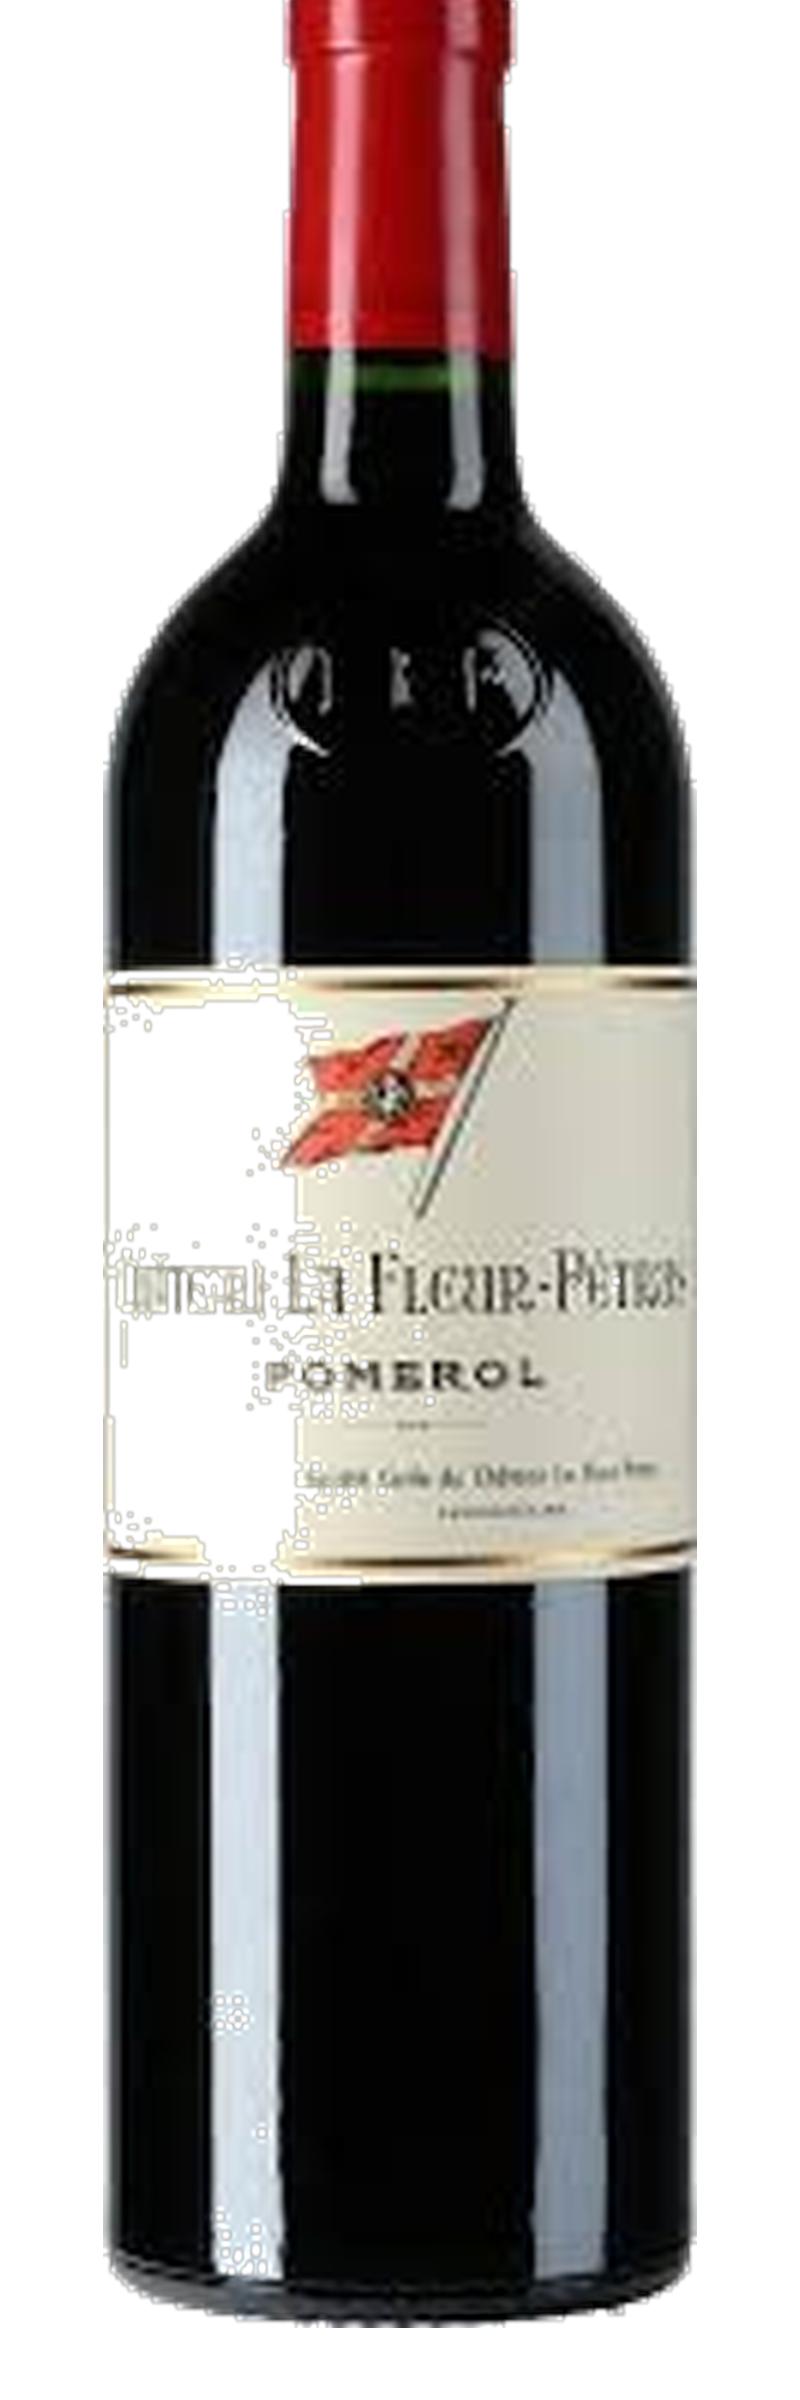
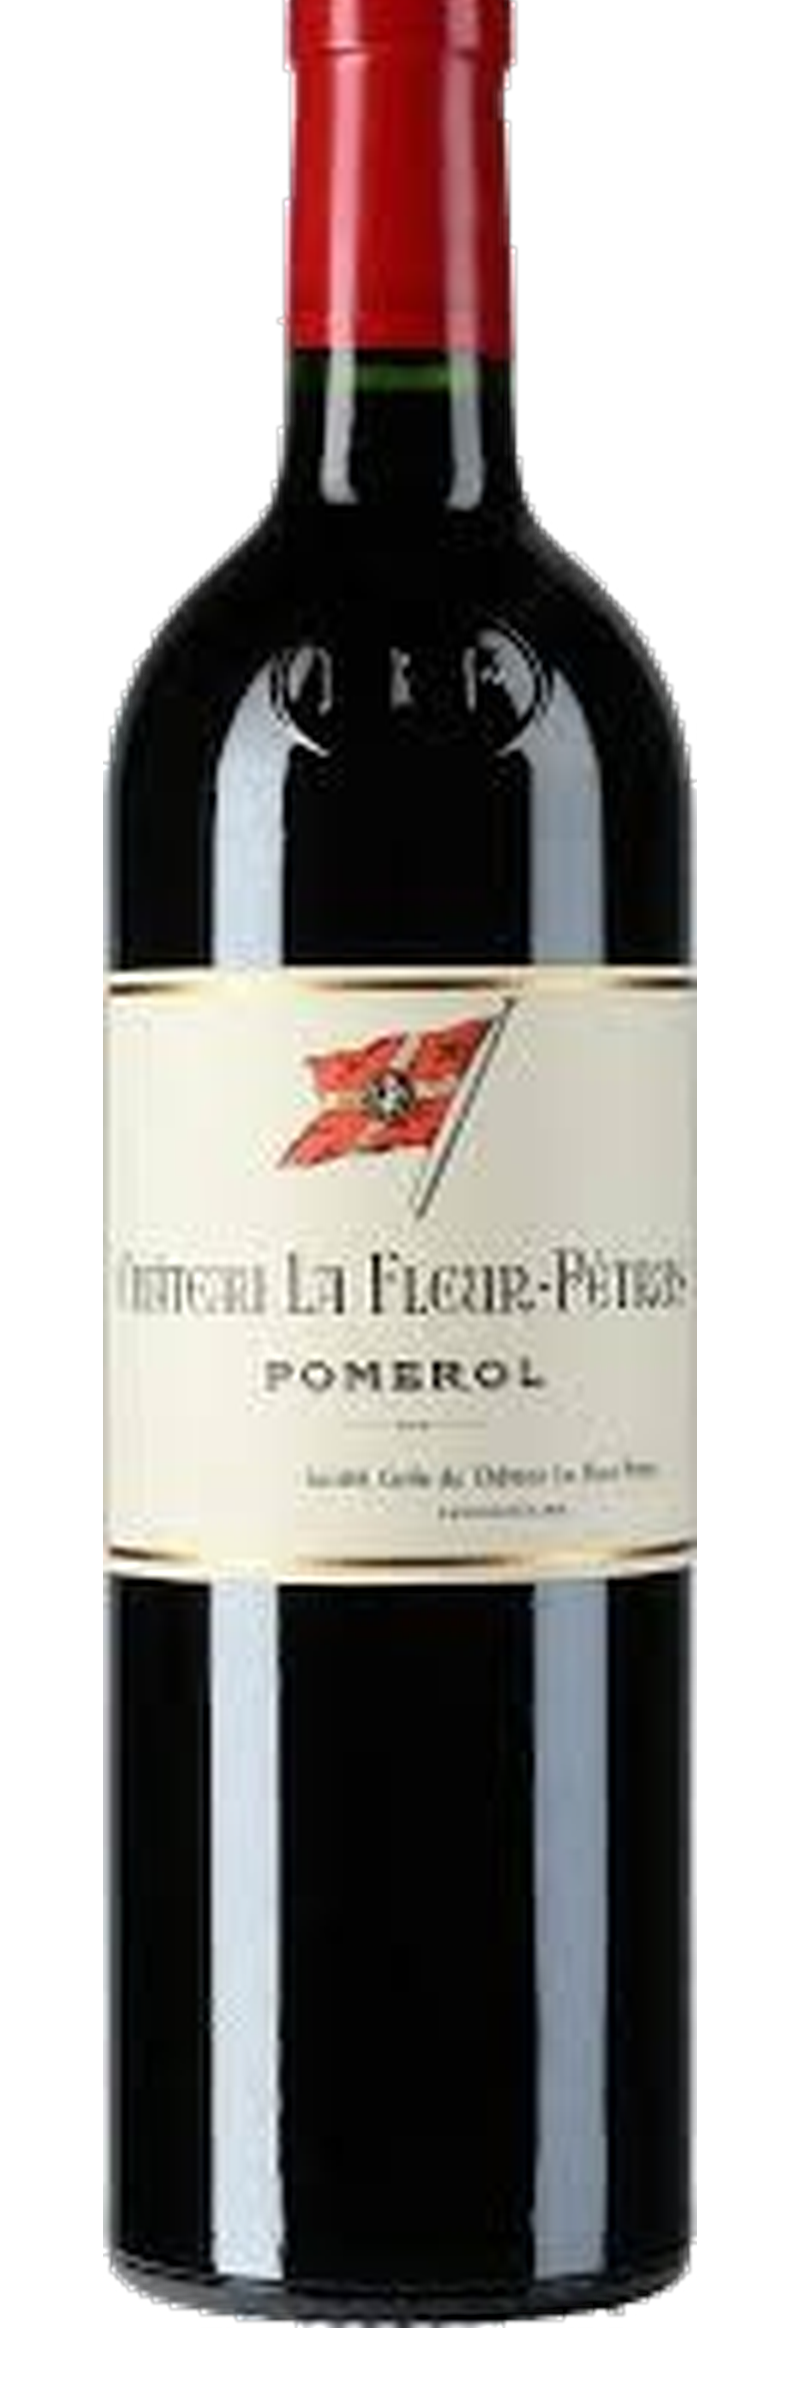
Fix 17 Bordeaux bottle shots (shadow removal, flood fill); Promotion page white background

Changed region(s): [[0.125, 0.375, 0.4688, 0.6875], [0.625, 0.0938, 0.6562, 0.125], [0.2812, 0.9375, 0.3125, 0.9688]]

diff --git a/client/src/pages/PromotionPage.tsx b/client/src/pages/PromotionPage.tsx
@@ -62,7 +62,7 @@ function PromoWineCard({ product }: { product: Product }) {
 
   return (
     <Link href={`/wines/${product.id}`}>
-      <a className="group bg-white/5 hover:bg-white/10 border border-white/10 hover:border-white/25 rounded-2xl overflow-hidden transition-all duration-300 flex flex-col">
+      <a className="group bg-white hover:bg-gray-50 border border-gray-100 hover:border-gray-200 hover:shadow-md rounded-2xl overflow-hidden transition-all duration-300 flex flex-col">
         {/* Image */}
         <div className="relative h-52 flex items-center justify-center bg-black/20 overflow-hidden">
           {product.image_url ? (
@@ -72,7 +72,7 @@ function PromoWineCard({ product }: { product: Product }) {
               className="h-48 w-28 object-contain group-hover:scale-105 transition-transform duration-500 drop-shadow-2xl"
             />
           ) : (
-            <div className="w-16 h-40 bg-white/10 rounded" />
+            <div className="w-16 h-40 bg-gray-100 rounded" />
           )}
           {/* SALE badge */}
           {product.promo_price && (
@@ -85,16 +85,16 @@ function PromoWineCard({ product }: { product: Product }) {
         {/* Info */}
         <div className="p-4 flex flex-col flex-1">
           {/* Region */}
-          <p className="font-body text-[10px] text-white/40 uppercase tracking-widest mb-1">{product.region} · {product.vintage}</p>
+          <p className="font-body text-[10px] text-gray-400 uppercase tracking-widest mb-1">{product.region} · {product.vintage}</p>
 
           {/* Name */}
-          <h3 className="font-display text-sm font-medium text-white leading-snug mb-2 line-clamp-2 group-hover:text-amber-300 transition-colors">
+          <h3 className="font-display text-sm font-medium text-gray-900 leading-snug mb-2 line-clamp-2 group-hover:text-amber-700 transition-colors">
             {product.name.replace("Bordeaux 2022 - ", "").replace(product.brand + " - ", "")}
           </h3>
 
           {/* Grape */}
           {product.grape && (
-            <p className="font-body text-[10px] text-white/40 mb-2 line-clamp-1">{product.grape}</p>
+            <p className="font-body text-[10px] text-gray-400 mb-2 line-clamp-1">{product.grape}</p>
           )}
 
           {/* Scores */}
@@ -114,12 +114,12 @@ function PromoWineCard({ product }: { product: Product }) {
                   <p className="font-display text-lg font-bold text-red-400 leading-none">
                     {formatPrice(product.promo_price)}
                   </p>
-                  <p className="font-body text-xs text-white/35 line-through leading-none mt-0.5">
+                  <p className="font-body text-xs text-gray-300 line-through leading-none mt-0.5">
                     {formatPrice(product.price)}
                   </p>
                 </>
               ) : (
-                <p className="font-display text-lg font-bold text-white">{formatPrice(product.price)}</p>
+                <p className="font-display text-lg font-bold text-gray-900">{formatPrice(product.price)}</p>
               )}
             </div>
             <Button
@@ -245,18 +245,18 @@ export default function PromotionPage() {
       </div>
 
       {/* ── Wine Grid by Region ── */}
-      <div className="bg-[hsl(355,40%,10%)]">
+      <div className="bg-white">
         <div className="max-w-7xl mx-auto px-4 sm:px-6 py-16">
 
           {sortedRegions.map(region => (
             <div key={region} className="mb-14">
               {/* Region header */}
               <div className="flex items-center gap-4 mb-6">
-                <div className="h-px flex-1 bg-white/10" />
-                <h2 className="font-display text-lg font-light text-white/80 tracking-widest uppercase">
+                <div className="h-px flex-1 bg-gray-200" />
+                <h2 className="font-display text-lg font-light text-gray-500 tracking-widest uppercase">
                   {region}
                 </h2>
-                <div className="h-px flex-1 bg-white/10" />
+                <div className="h-px flex-1 bg-gray-200" />
               </div>
 
               <div className="grid grid-cols-2 sm:grid-cols-3 md:grid-cols-4 lg:grid-cols-5 xl:grid-cols-6 gap-4">
@@ -269,16 +269,16 @@ export default function PromotionPage() {
 
           {promoWines.length === 0 && (
             <div className="text-center py-24">
-              <p className="font-body text-white/40">No wines available for this promotion.</p>
+              <p className="font-body text-gray-400">No wines available for this promotion.</p>
             </div>
           )}
         </div>
       </div>
 
       {/* ── Footer CTA ── */}
-      <div className="bg-[hsl(355,40%,8%)] border-t border-white/5 py-12">
+      <div className="bg-gray-50 border-t border-gray-100 py-12">
         <div className="max-w-7xl mx-auto px-4 sm:px-6 text-center">
-          <p className="font-body text-white/40 text-sm mb-4">
+          <p className="font-body text-gray-400 text-sm mb-4">
             All prices are per bottle · Subject to availability · Free delivery on orders over HK$1,000
           </p>
           <Link href="/cart">
